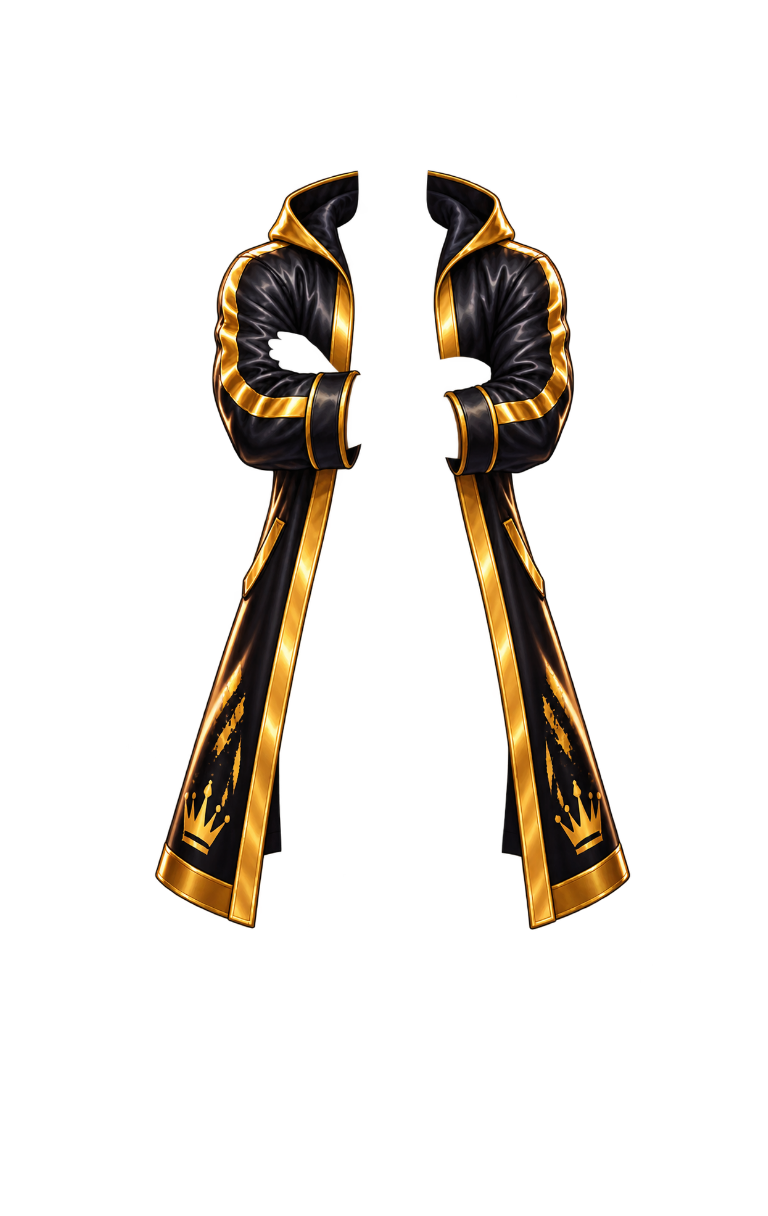
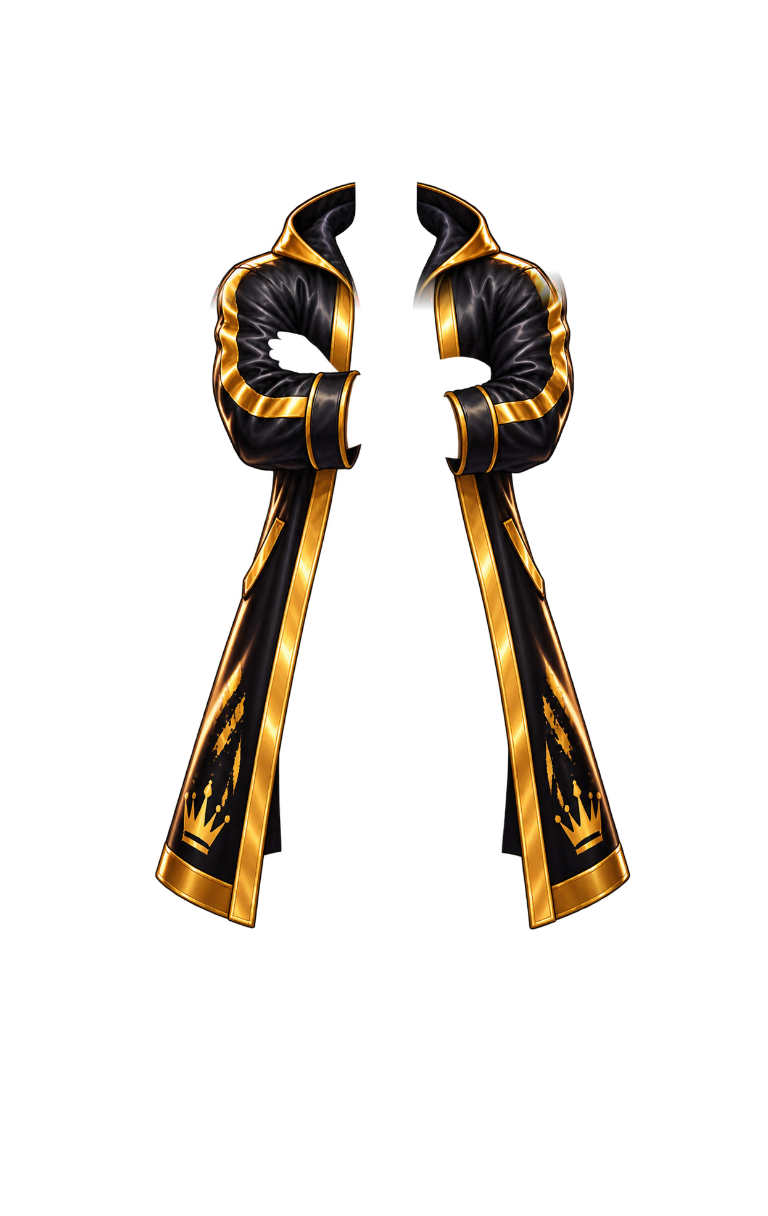
fix(boxer): fit coat collar and share actual outfit art with item previews

Changed region(s): [[0.5312, 0.125, 0.75, 0.25], [0.2812, 0.125, 0.4688, 0.25]]

diff --git a/mein-boxer.html b/mein-boxer.html
@@ -136,6 +136,7 @@ function refreshHero(){
  if(!preview||!cfg)return;
  const pose=previewPose==='card'?cfg.pose_card:cfg.pose_profile;
  preview.innerHTML=heroArt(cfg,pose)+artDebugLabel(cfg,pose);
+ if(typeof refreshItemPreviews==='function')refreshItemPreviews();
 }
 // Diagnostics are only exposed to editors explicitly using ?art=preview.
 // Nothing is added to public cards, profiles or normal Studio operation.
@@ -191,6 +192,7 @@ function itemLook(slot,value){
  const look=Object.assign({},cfg,{scene:'holo',aura:'none'});
  if(['head','top','bottom','hands','feet'].includes(slot))look.coat='none';
  if(slot==='head'){look.head=value;look.hood=false;look.top='none'}
+ else if(slot==='hair'){look.hair=value;look.head='none';look.hood=false;look.top='none';look.coat='none'}
  else if(slot==='top'){look.top=value;look.hood=value==='hoodie'&&cfg.hood}
  else if(slot==='bottom'){look.bottom=value;look.top='none'}
  else if(slot==='hands'){look.hands=value}
@@ -203,13 +205,48 @@ function itemLook(slot,value){
  else if(slot==='pose')look.pose_profile=value;
  return look;
 }
+// Apply precisely the same field change as the delegated outfit controls.
+function selectionLook(field,value){
+ const next={...cfg};
+ if(field==='coatPick')next.coat=value;
+ else if(field==='pose')next[previewPose==='card'?'pose_card':'pose_profile']=value;
+ else if(field==='tone')next.tone=Number(value);
+ else next[field]=value;
+ if(field==='top'&&value!=='hoodie')next.hood=false;
+ return H.normalize(next);
+}
+function itemPreview(field,value){
+ const slot=field==='coatPick'?'coat':field;
+ // Removal controls have no equipment artwork to classify.
+ if(value==='none'&&['head','top','coat'].includes(slot))return {html:G&&G.svg?G.svg(field,value,itemLook(field,value)):'',kind:'none'};
+ const next=selectionLook(field,value),pose=previewPose==='card'?next.pose_card:next.pose_profile;
+ const runtime=modularReview?modularPack:usePremiumArt&&!compareSvg?A&&A.active:null;
+ const descriptor=runtime&&runtime.item&&runtime.item(next,pose,slot);
+ if(descriptor&&G&&G.png){
+  if(runtime.prepare(next,pose,refreshItemPreviews)){
+   const png=G.png(runtime.item(next,pose,slot));
+   if(png)return {html:png,kind:'anime'};
+  }
+ }
+ const look=itemLook(field,value),scene=slot==='scene'?value:'none';
+ return {html:G&&G.supports(field,value)?G.svg(field,value,look):H.svg(look,{pose,scene,holo:false}),kind:'svg'};
+}
+const itemStatus=kind=>kind==='none'?'':'<span class="mb-item-status" data-renderer="'+kind+'">'+(kind==='anime'?'Anime':'SVG')+'</span>';
+function refreshItemPreviews(){
+ if(!cfg||!app.querySelectorAll)return;
+ for(const tile of app.querySelectorAll('[data-preview-field]')){
+  const result=itemPreview(tile.dataset.previewField,tile.dataset.previewValue);
+  const art=tile.querySelector('.mb-gear-art,.mb-shop-item-art'),badge=tile.querySelector('.mb-item-status');
+  if(art)art.innerHTML=result.html;
+  if(badge){badge.textContent=result.kind==='anime'?'Anime':'SVG';badge.dataset.renderer=result.kind}
+  if(tile.matches('button'))tile.setAttribute('aria-description',result.kind==='none'?'Kein Ausrüstungsgegenstand':result.kind==='anime'?'Anime':'SVG');
+ }
+}
 function gearChip(field,v,label,on,extra){
  const slot=field==='coatPick'?'coat':field;
- const look=itemLook(field,v);
  const klass=slot==='glove'||slot==='hands'?'hands':slot;
- const scene=slot==='scene'?v:'none';
- const content=G&&G.supports(field,v)?G.svg(field,v,look):H.svg(look,{pose:'guard',scene,holo:false});
- return `<button type="button" class="mb-chip mb-gear-chip" data-set="${field}" data-val="${esc(v)}" aria-label="${esc(label)}" aria-pressed="${on}"><span class="mb-gear-art mb-gear-${klass}" aria-hidden="true">${content}</span><span class="mb-gear-name">${esc(label)}</span>${extra||''}</button>`;
+ const result=itemPreview(field,v);
+ return `<button type="button" class="mb-chip mb-gear-chip" data-set="${field}" data-val="${esc(v)}" data-preview-field="${field}" data-preview-value="${esc(v)}" aria-label="${esc(label)}" aria-description="${result.kind==='none'?'Kein Ausrüstungsgegenstand':result.kind==='anime'?'Anime':'SVG'}" aria-pressed="${on}"><span class="mb-gear-art mb-gear-${klass}" aria-hidden="true">${result.html}</span><span class="mb-gear-name">${esc(label)}</span>${itemStatus(result.kind)}${extra||''}</button>`;
 }
 const sw=(field,v,color,label,on)=>`<button type="button" class="mb-sw" data-set="${field}" data-val="${esc(v)}" aria-pressed="${on}" aria-label="${esc(label)}" style="--c:${color}"></button>`;
 const toggle=(id,label,on)=>`<div class="mb-toggle"><span>${label}</span><button type="button" class="mb-switch" data-toggle="${id}" aria-pressed="${on}" aria-label="${label}"><i></i></button></div>`;
@@ -221,7 +258,7 @@ function itemChips(slot,field,withNone){
 function colorRow(field,map,labels){return `<div class="mb-row">${Object.keys(map).map(k=>sw(field,k,map[k][0],labels[k]||k,cfg[field]===k)).join('')}</div>`}
 function viewKoerper(){
  return sec('Hautfarbe',`<div class="mb-row">${H.TONES.map((t,i)=>sw('tone',i,t[0],'Hautton '+(i+1),cfg.tone===i)).join('')}</div>`)
-  +sec('Frisur',`<div class="mb-row">${items().filter(i=>i.slot==='hair').map(i=>chip('hair',i.value,esc(i.name),cfg.hair===i.value,lockTag(i))).join('')}</div>`)
+  +sec('Frisur',`<div class="mb-row">${items().filter(i=>i.slot==='hair').map(i=>gearChip('hair',i.value,i.name,cfg.hair===i.value,lockTag(i))).join('')}</div>`)
   +sec('Haarfarbe',colorRow('hc',H.HC,H.LABEL.hc))+sec('Augenfarbe',colorRow('eye',H.EYE,H.LABEL.eye));
 }
 function viewKleidung(){
@@ -260,7 +297,7 @@ function viewShop(){
    <div class="mb-price">${COIN}${fmt(b.price)} <s>${fmt(b.value)}</s></div>${buyBtn('bundle',b.key,b.price,b.owned_all)}
    <button type="button" class="mb-btn ghost" data-try-bundle="${esc(b.key)}">Anprobieren</button></div></article>`}).join('');
  const shopItems=items().filter(i=>i.unlock==='shop');
- const groups=['coat','glove','aura','eyefx','scene','pose'].map(s=>{const l=shopItems.filter(i=>i.slot===s);return l.length?sec(SLOT_TITLE[s],`<div class="mb-list">${l.map(i=>`<div class="mb-li"><span class="mb-shop-item-art" aria-hidden="true">${(G&&G.supports(i.slot,i.value)?G.svg(i.slot,i.value,itemLook(i.slot,i.value)):H.svg(itemLook(i.slot,i.value),{pose:'guard',scene:i.slot==='scene'?i.value:'none',holo:false}))}</span><span><b>${esc(i.name)}</b><span class="mb-rar r-${esc(i.rarity)}">${esc(({common:'Gewöhnlich',rare:'Selten',epic:'Episch',leg:'Legendär',myth:'Mythisch'})[i.rarity]||'')}</span></span>${buyBtn('item',i.key,i.price,i.owned)}</div>`).join('')}</div>`):''}).join('');
+ const groups=['coat','glove','aura','eyefx','scene','pose'].map(s=>{const l=shopItems.filter(i=>i.slot===s);return l.length?sec(SLOT_TITLE[s],`<div class="mb-list">${l.map(i=>`<div class="mb-li" data-preview-field="${i.slot}" data-preview-value="${esc(i.value)}"><span class="mb-shop-item-art" aria-hidden="true">${itemPreview(i.slot,i.value).html}</span><span><b>${esc(i.name)}</b>${itemStatus(itemPreview(i.slot,i.value).kind)}<span class="mb-rar r-${esc(i.rarity)}">${esc(({common:'Gewöhnlich',rare:'Selten',epic:'Episch',leg:'Legendär',myth:'Mythisch'})[i.rarity]||'')}</span></span>${buyBtn('item',i.key,i.price,i.owned)}</div>`).join('')}</div>`):''}).join('');
  const rewards=items().filter(i=>i.unlock==='reward');
  return `<div class="mb-wallet">${COIN}<b>${fmt(data.coins)}</b> Coins</div>${bundles?sec('Bundles',`<div class="mb-bundles">${bundles}</div>`):''}${groups}`
   +sec('Belohnungen',`<div class="mb-list">${rewards.map(i=>`<div class="mb-li"><span><b>${esc(i.name)}</b><span class="mb-note">${esc(SLOT_TITLE[i.slot]||'')} · ${esc(i.reward||'')}</span></span>${i.owned?'<span class="mb-owned">Freigeschaltet</span>':'<span class="mb-lockedtxt">Noch gesperrt</span>'}</div>`).join('')}</div>`);
@@ -345,7 +382,7 @@ async function load(){
 // If even one approved artwork file fails, redraw the complete SVG hero.
 app.addEventListener('error',e=>{
  const img=e.target;
- if(!img||!img.matches||!img.matches('.mb-preview .mb-artpack-img'))return;
+ if(!img||!img.matches||!img.matches('.mb-preview .mb-artpack-img,.mb-item-png img'))return;
  const runtime=modularReview?modularPack:A&&A.active;
  if(runtime&&runtime.markFailed(img.getAttribute('src')))refreshHero();
 },true);

diff --git a/takeover-mein-boxer-artpack.js b/takeover-mein-boxer-artpack.js
@@ -109,6 +109,16 @@ function build(manifest,draftPreview){
   if(!selected.length)return {state:'missing-layer'};
   return {state:selected.every(x=>loaded.has(x.src))?'ready':'loading',layers:selected};
  }
+ // Item art is permitted only when the entire resulting outfit is supported.
+ function item(config,pose,slot){
+  const found=selection(config,pose),frames=m.itemFrames&&m.itemFrames[pose];
+  const frame=frames&&frames[slot];
+  if(!found.layers||!Array.isArray(frame)||frame.length!==4||!frame.every(Number.isFinite)||frame[2]<=0||frame[3]<=0)return null;
+  const slots=slot==='coat'?['coatBack','coatFront']:slot==='glove'?['hands']:[slot];
+  const layers=found.layers.filter(layer=>slots.includes(layer.slot));
+  if(!layers.length)return null;
+  return {state:found.state,layers,frame:frame.slice()};
+ }
  function choose(config,pose){
   stats.attempted++;
   const found=selection(config,pose);
@@ -157,7 +167,7 @@ function build(manifest,draftPreview){
   failed.add(url);
   return true;
  }
- return Object.freeze({render,choose,prepare,inspect,markFailed,stats});
+ return Object.freeze({render,choose,prepare,inspect,markFailed,item,stats});
 }
 function create(manifest){return build(manifest,false)}
 function createDraft(manifest){

diff --git a/takeover-mein-boxer-items.js b/takeover-mein-boxer-items.js
@@ -126,5 +126,14 @@ function svg(field,value,config){
  const art=mainShape(slot,value,accent,base,edge,id);
  return '<svg class="mb-item-svg" viewBox="0 0 130 116" xmlns="http://www.w3.org/2000/svg" aria-hidden="true" focusable="false">'+defs+'<ellipse cx="65" cy="105" rx="46" ry="6" fill="#050b13" opacity=".6"/>'+art+'</svg>';
 }
-window.TLGearArt=Object.freeze({svg,supports});
+// Reuse the runtime's selected PNG URLs and registration; no new image requests
+// beyond the shared loader and the browser cache, no independent thumbnails.
+function png(item){
+ if(!item||item.state!=='ready')return '';
+ const [x,y,w,h]=item.frame;
+ if(![x,y,w,h].every(Number.isFinite)||w<=0||h<=0)return '';
+ if(!item.layers.every(l=>/^\.\/assets\/boxer-artpacks\/v1\/[a-z0-9_/-]+\.(png|webp)$/.test(l.src)))return '';
+ return '<span class="mb-item-png" style="--item-ratio:'+(w/h)+';aspect-ratio:'+w+'/'+h+'">'+item.layers.map(l=>'<img src="'+l.src+'" alt="" data-item-art-slot="'+l.slot+'" decoding="sync" draggable="false" style="left:'+(-x/w*100)+'%;top:'+(-y/h*100)+'%;width:'+(768/w*100)+'%;height:'+(1216/h*100)+'%">').join('')+'</span>';
+}
+window.TLGearArt=Object.freeze({svg,supports,png});
 })();

diff --git a/takeover-mein-boxer.css b/takeover-mein-boxer.css
@@ -766,3 +766,10 @@ body[data-tl-screen="mein-boxer"] .mb-draft-anatomy input{
  body[data-tl-screen="mein-boxer"] .mb-stage-title{flex-basis:100%}
  body[data-tl-screen="mein-boxer"] .mb-stage :is(.mb-draft-tools,.mb-reference-tools,.mb-art-compare){top:88px}
 }
+/* Equipment artwork follows the prospective full-outfit renderer. */
+body[data-tl-screen="mein-boxer"] .mb-gear-hair svg.tlh{width:168px;top:-14px}
+body[data-tl-screen="mein-boxer"] .mb-item-status{display:block;font:700 10px/1.3 system-ui;color:#b9c9dd;letter-spacing:.03em;margin-top:3px}
+body[data-tl-screen="mein-boxer"] .mb-item-status[data-renderer="anime"]{color:#f0cc72}
+body[data-tl-screen="mein-boxer"] :is(.mb-gear-art,.mb-shop-item-art){container-type:size;display:grid;place-items:center}
+body[data-tl-screen="mein-boxer"] .mb-item-png{display:block;position:relative;overflow:hidden;width:min(100cqw,calc(100cqh * var(--item-ratio)));height:auto;margin:auto;isolation:isolate}
+body[data-tl-screen="mein-boxer"] .mb-item-png img{position:absolute;display:block;max-width:none;max-height:none;object-fit:fill;pointer-events:none}

diff --git a/takeover-mein-boxer-modular-manifest.js b/takeover-mein-boxer-modular-manifest.js
@@ -7,6 +7,8 @@ window.TLBoxerModularDraftManifest=Object.freeze({
  version:1,draft:'modular-cool',approved:false,enabled:false,
  canvas:{width:768,height:1216},
  configurations:{cool:{tone:6,eye:'braun',hc:'schwarz',head:'none',hands:'gloves'}},
+ // Viewboxes crop the actual registered layers, never substitute artwork.
+ itemFrames:{cool:{coat:[145,160,490,780],top:[280,240,215,335],bottom:[220,540,340,265],feet:[150,945,480,235],hair:[300,40,170,145],hands:[230,300,310,130],glove:[230,300,310,130]}},
  poses:{cool:{
   coatBack:{samurai:'modular-cool/coatback.png'},
   body:{'6':'modular-cool/body.png'},

diff --git a/docs/PR79_ITEM_ART_REVIEW.md b/docs/PR79_ITEM_ART_REVIEW.md
@@ -1,0 +1,80 @@
+# PR79: Kragen, Schultern und originalgetreue Item-Vorschauen
+
+Ausgangs-Head: `77e77b85a608863bc42e91fc2fff064368c4d8f7`.
+PR79 bleibt Draft; PR80 bleibt unverändert. Kein Merge oder Deployment.
+Beide Grafikmanifeste bleiben `approved:false`, `enabled:false`.
+
+## Änderung
+
+Der obere Bereich von `modular-cool/coatfront.png` passt den Kragen an die
+Halsbasis und den Schulterverlauf an. Keine globale Verschiebung per CSS.
+Die registrierte 768×1216-Leinwand und die Ebenenreihenfolge bleiben bestehen.
+`coatback.png`, Körperbasis, beide Handschuhe und deren anatomische Anker sind
+unverändert. Ab Zeile 310 sind sämtliche dekodierten RGBA-Pixel des vorderen
+Mantels identisch zum Ausgangs-Head (0 geänderte Kanäle). Der SHA-256 dieses
+Bereichs, zeilenweise RGBA, lautet
[1 lines of base64/hex data omitted]
+
+Die lokal begrenzte Korrektur wurde mit dem eingebauten Imagegen-Werkzeug
+erstellt. Eingaben waren die vordere Mantel-Ebene als Bearbeitungsziel sowie
+Körperbasis und Originalkomposit als Passform-/Stilreferenzen. Der Entwurf wurde
+mit Faktor 0,63 und Ursprung (72,114) registriert, nur oberhalb Zeile 310
+übernommen und zwischen Zeilen 270 und 310 eingeblendet. Registrierung,
+Quellhash und Dateiinventar dokumentieren die Änderung. Dies ist keine
+Behauptung einer persönlichen Grafikfreigabe oder eines pixelidentischen
+Nachbaus der ursprünglichen Gesamtvorlage.
+
+## Gemeinsame Quelle für Figur und Kacheln
+
+Die Item-Auswahl fragt dieselbe vollständige Outfit-Auflösung wie die Figur
+ab, mit der **Konfiguration nach Auswahl** und der aktuellen Profil-/Kartenpose.
+Anime wird erst nach erfolgreichem gemeinsamen Preload gezeigt. Eine nicht
+unterstützte Pose, Farbe, Bekleidung oder ein Bildfehler bewirkt die passende
+SVG-Vorschau. Auch eine Auswahl, die ein bislang nicht unterstütztes Outfit
+wieder kompatibel macht, wird korrekt erkannt.
+
+Anime-Miniaturen verwenden direkt die ausgewählten registrierten Dateien.
+Der Mantel kombiniert Rück- und Vorderseite; die anderen Kacheln enthalten
+nur ihre jeweilige Ebene. Ausschnitte sind im modularen Manifest definiert.
+Keine separaten Miniaturbilder, Ganzkörper-Screenshots, neuen Item-Schlüssel
+oder zusätzlichen Bildquellen. Breite und hohe Ausschnitte werden proportional
+eingepasst. Die zwölf vorhandenen Dateien teilen sich den gecachten Loader
+mit maximal drei gleichzeitigen Preloads.
+
+Die Beschriftungen **Anime** und **SVG** stehen an den Item-Kacheln und werden
+auch als zugängliche Beschreibung ausgegeben. Entfernen-Schaltflächen wie
+„Ohne“ haben kein Ausrüstungsbild und erhalten keine Renderer-Kennzeichnung.
+Asynchrones Aktualisieren erhält Fokus und Scrollposition. Der normale Editor
+ohne `?art=modular` bleibt SVG und lädt keine modularen PNGs.
+
+## Prüfung und Abnahme
+
+`tests/boxer-modular-art-browser.cjs` prüft in Chromium und WebKit jeweils 32
+Outfitkombinationen sowie 16 gezielte Handschuhansichten. Ergänzte Prüfungen
+vergleichen Item-Dateien mit den tatsächlich ausgerüsteten Hero-Ebenen,
+prüfen proportionale Ausschnitte, vorausschauende Anime-/SVG-Kennzeichnung,
+Bildfehler und den Erhalt des Tastaturfokus. Die bestehenden Handgelenk-,
+Handflächen- und Unterarm-Pixelprüfungen bleiben unverändert.
+
+Zusätzlich: Artpack-/Editor-Verträge, Preload-Limit, Charakterarchitektur,
+isolierter Pages-Dateiumfang, Boxer-Holo-Integration und die sechs Posen mit
+unabhängiger Profil-/Kartenpose. Browser-Automation ersetzt keine Prüfung auf
+einem physischen iPhone/Android und keine persönliche Designabnahme.
+
+Manuell im lokalen Entwurf `mein-boxer.html?art=modular&tab=kleidung` prüfen:
+
+1. Cool-Pose, Hautton 7, schwarze Afro-/Kurzhaarfrisur, braune Augen,
+   keine Kopfbedeckung/Effekte, schwarze Boxstiefel und Boxershorts in Schwarz
+   oder Rot wählen. Oberteil: Ohne oder schwarzes Tanktop.
+2. Samurai-Jacke wählen: Kragen/Schultern ansehen; Kachel muss denselben
+   schwarz-goldenen Mantel mit „Anime“ zeigen.
+3. Schwarz-Gold/Weiss wechseln: Kachel und Figur müssen dieselben Handschuhe
+   zeigen, ohne Positionssprung oder verdeckten Unterarm.
+4. T-Shirt wählen: Figur und Mantelkachel wechseln zu SVG. Tanktop zurückwählen:
+   Anime-Darstellung kehrt zurück. Eine andere Pose muss ebenfalls auf SVG fallen.
+5. Unter Körper die beiden unterstützten Frisuren wechseln und die Kacheln
+   vergleichen. Andere Frisuren bleiben SVG.
+
+Das bisherige ZIP `docs/review/PR79-Abnahme.zip` bleibt unverändert und zeigt
+den **historischen** Stand vor dieser Korrektur. Es ist kein Abnahmebeleg für
+die hier beschriebenen neuen Item-Kacheln oder den neuen Kragen.
